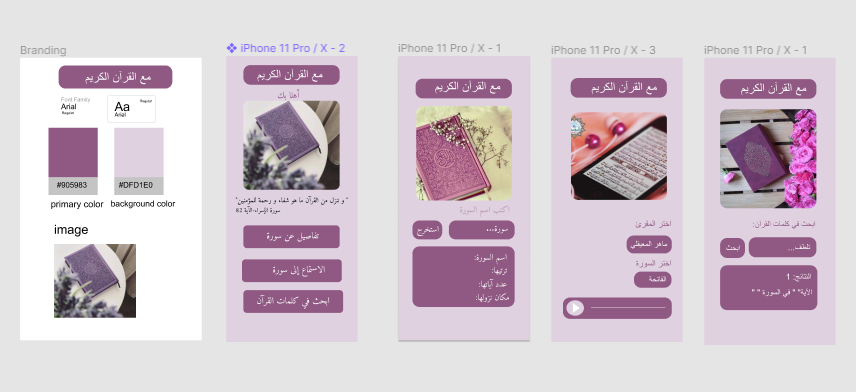
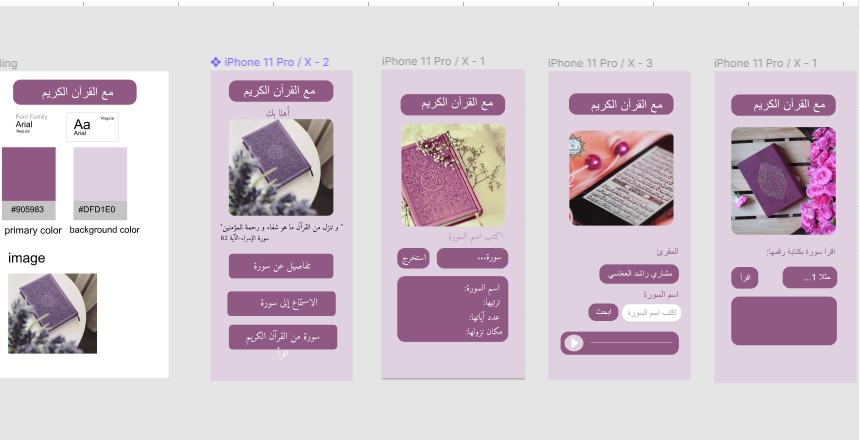
updating the readme file Relates #28 Rlates #28

diff --git a/audio-Page/audio.html b/audio-Page/audio.html
@@ -5,12 +5,12 @@
   <meta http-equiv="X-UA-Compatible" content="IE=edge">
   <meta name="viewport" content="width=device-width, initial-scale=1.0">
   <title>Document</title>
- <link rel="stylesheet" href="/audio-Page/audio.css">
+ <link rel="stylesheet" href="audio.css">
 </head>
 <body>
   <main class="main">
   <header class="header">مع القرآن الكريم</header>
-  <figure class="img"><img src="/Assets/3 1.png" alt=""></figure>
+  <figure class="img"><img src="../Assets/3 1.png" alt=""></figure>
   </main>
   <section class="muqre2">
     <p class="para1"> المقرئ</p>
@@ -23,10 +23,9 @@
 <button id="searchBtn">ابحث</button>
   </div>
    <audio controls id="audioControl">
-    
   </audio>
 </section>
- <script src="/audio-Page/audio.js"></script>
+ <script src="audio.js"></script>
 
 </body>
 </html>

diff --git a/README.md b/README.md
@@ -4,29 +4,30 @@ It is simple app for providing electronic services related to the Holy Quara'an.
 ### The live Dem   (مع القرآن الكريم)
 You are more than welcome to visit our app here ( for github pages)
 ### The problem this app solve
-Many times, muslims user needs to access quickly general information about Sour Al-Qura'an Al-Kareem, listening to recitation of Soura of Al-Qura'an Al-Kareem, or finding arabic word in Al-Qura'an Al-Kareem for memorization or learning purposes. Thus, we were inspired to build a simple to use app for Al-Qura'an Al-Kareem. 
+Many times, muslims user needs to access quickly general information about Sour Al-Qura'an Al-Kareem, listening to recitation of Soura of Al-Qura'an Al-Kareem, or reading one surah from Al-Qura'an Al-Kareem. Thus, we were inspired to build a simple to use app for Al-Qura'an Al-Kareem. 
 ### The Solution
 This app provides three user services: 
     1- General information about Soura (chapters) of Al-Qura'an Al-Kareem.
     2- Playing audio for specific reciter for certain Soura of Al-Qura'an Al-Kareem.
-    3- Search in the entire Quara'an for the exisitance of certain word.
+    3- reading Surah from Al-Qura'an Al-Karee.
 
 
 ### App wireframe
 The design of the app were done through figma. It is based to simplfy user experience and make it as peaceful and smooth as possible.
-<img src="/assets/wireframe.png" >
+<img src="/Assets/wireframe.png" >
 
 ### User journey
 The muslim user is welcomed by a home page. Home page shows the user three button choices: 
 - Detailed informatin of Soura (تفاصيل عن سور).
 - Listening to Soura (الاستماع لسورة).
-- Search for word in Al-Qura'an Al-Kareem (ابحث في كلمات القرآن الكريم).
+- Reading Surah from Al-Qura'an Al-Karee(اقرأ سورة من القرآن الكريم).
 When the user click on one of these button, it will land to specific page fullfilling the descriped function of the button. 
 ### User story
-As a muslim user, I am welcomed to this app at home page. I can see three buttons which are 
-- Detailed informatin of Soura (تفاصيل عن سور).
-- Listening to Soura (الاستماع لسورة)
-- Search for word in Al-Qura'an Al-Kareem (ابحث في كلمات القرآن الكريم)
+As a muslim user, I am welcomed to this app at home page. I can
+- see three buttons which are 
+      * Detailed informatin of Soura (تفاصيل عن سور).
+      * Listening to Soura (الاستماع لسورة)
+      * reading Surah from Al-Qura'an Al-Karee(اقرأ سورة من القرآن الكريم)
 As a muslim user, I can:
 - press on "Detailed informatin of Soura (تفاصيل عن سورة)" button which leads me to Soura information page containing a search form. 
 - type Soura name and press (استخرج) button in the search form. 
@@ -35,20 +36,19 @@ As a muslim user, I can:
     - the verses count. 
     - the place of revelation.
 - press on Listening to Soura (الاستماع لسورة) button which will leads me to listening page.
-- interact with two scroll down manus:
-    - The first menu is for the Soura selection. (allow me to choose Soura I want to listen to.)
-    -  The second menue is for choosing the name of a reciter. 
-- listen to audio reciting the Soura I've choosen by the voice of the reciter.
-- stop the audio or make it continue when I press arrow button.  
-- can press on Search for word in Al-Qura'an Al-Kareem (ابحث في كلمات القرآن الكريم) button which leads me to word search page. 
-- enter an arabic word to find its presences in Sour of Al-Quara'an Al-kareem. 
-- see the number of results, and all Sours that contain the word I searched for.
+    - write the name of Surah
+    - press (ابحث) button 
+    - listen to audio reciting the Soura I've choosen by the reciter ( مشاري راشد العفاسي).
+    - stop the audio or make it continue when I press arrow button.  
+- can press on read Surah from Al-Qura'an Al-Kareem (اقرأ سورة من القرآن الكريم) button which leads me to read Surah page. 
+  - enter the number of Surah of Al-Quara'an Al-kareem. 
+  - see the whole verses of Surah and read it.
 
 ### How was the App built?
 API Fethcing were used to create this app by useing javascript. These APIes are:
 https://api.quran.sutanlab.id/surah
-
-
+https://unpkg.com/quran-json@1.0.1/json/quran/en.json
+https://al-quran-8d642.firebaseio.com/data.json?print=pretty
 ### App installation to run it locally.
 You should have in your local machine gitBash  to download this app  and Visual Studio Code to view it.
 
@@ -67,5 +67,3 @@ The technolegies used are :
 - Aya
 - Reem
 - Ola
-
->Note: Any additional changes might be done will be documented here.
